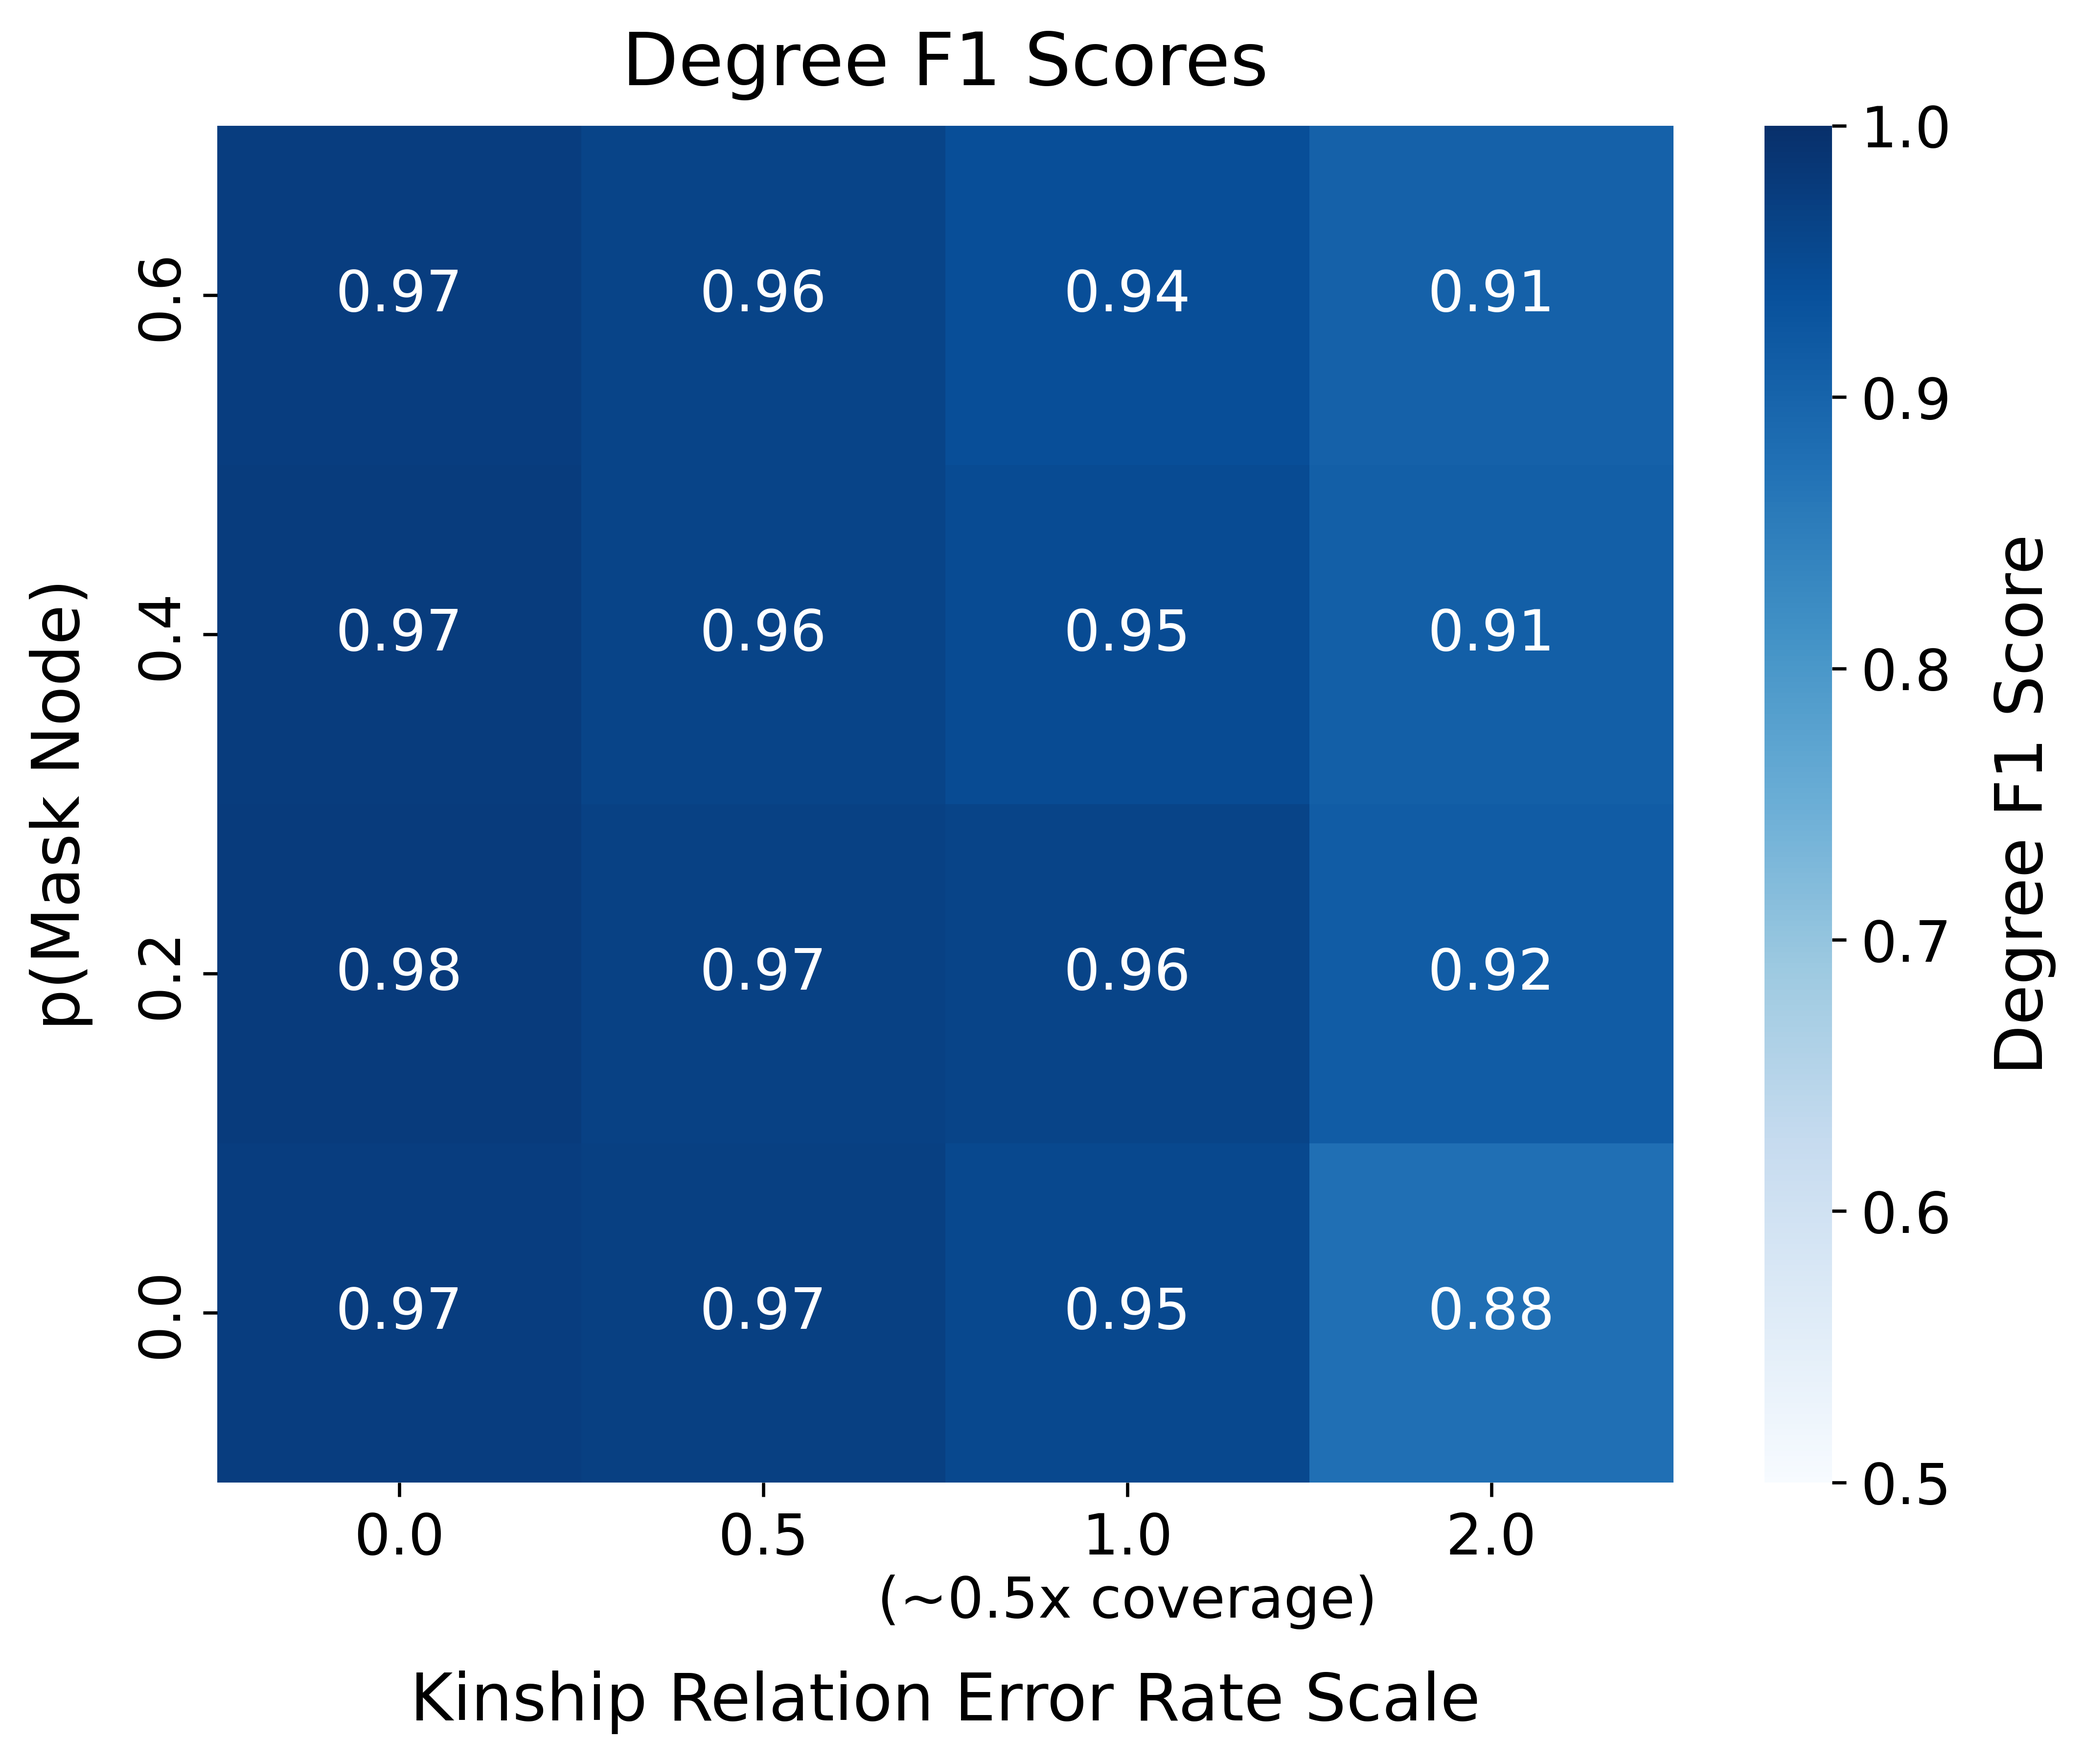
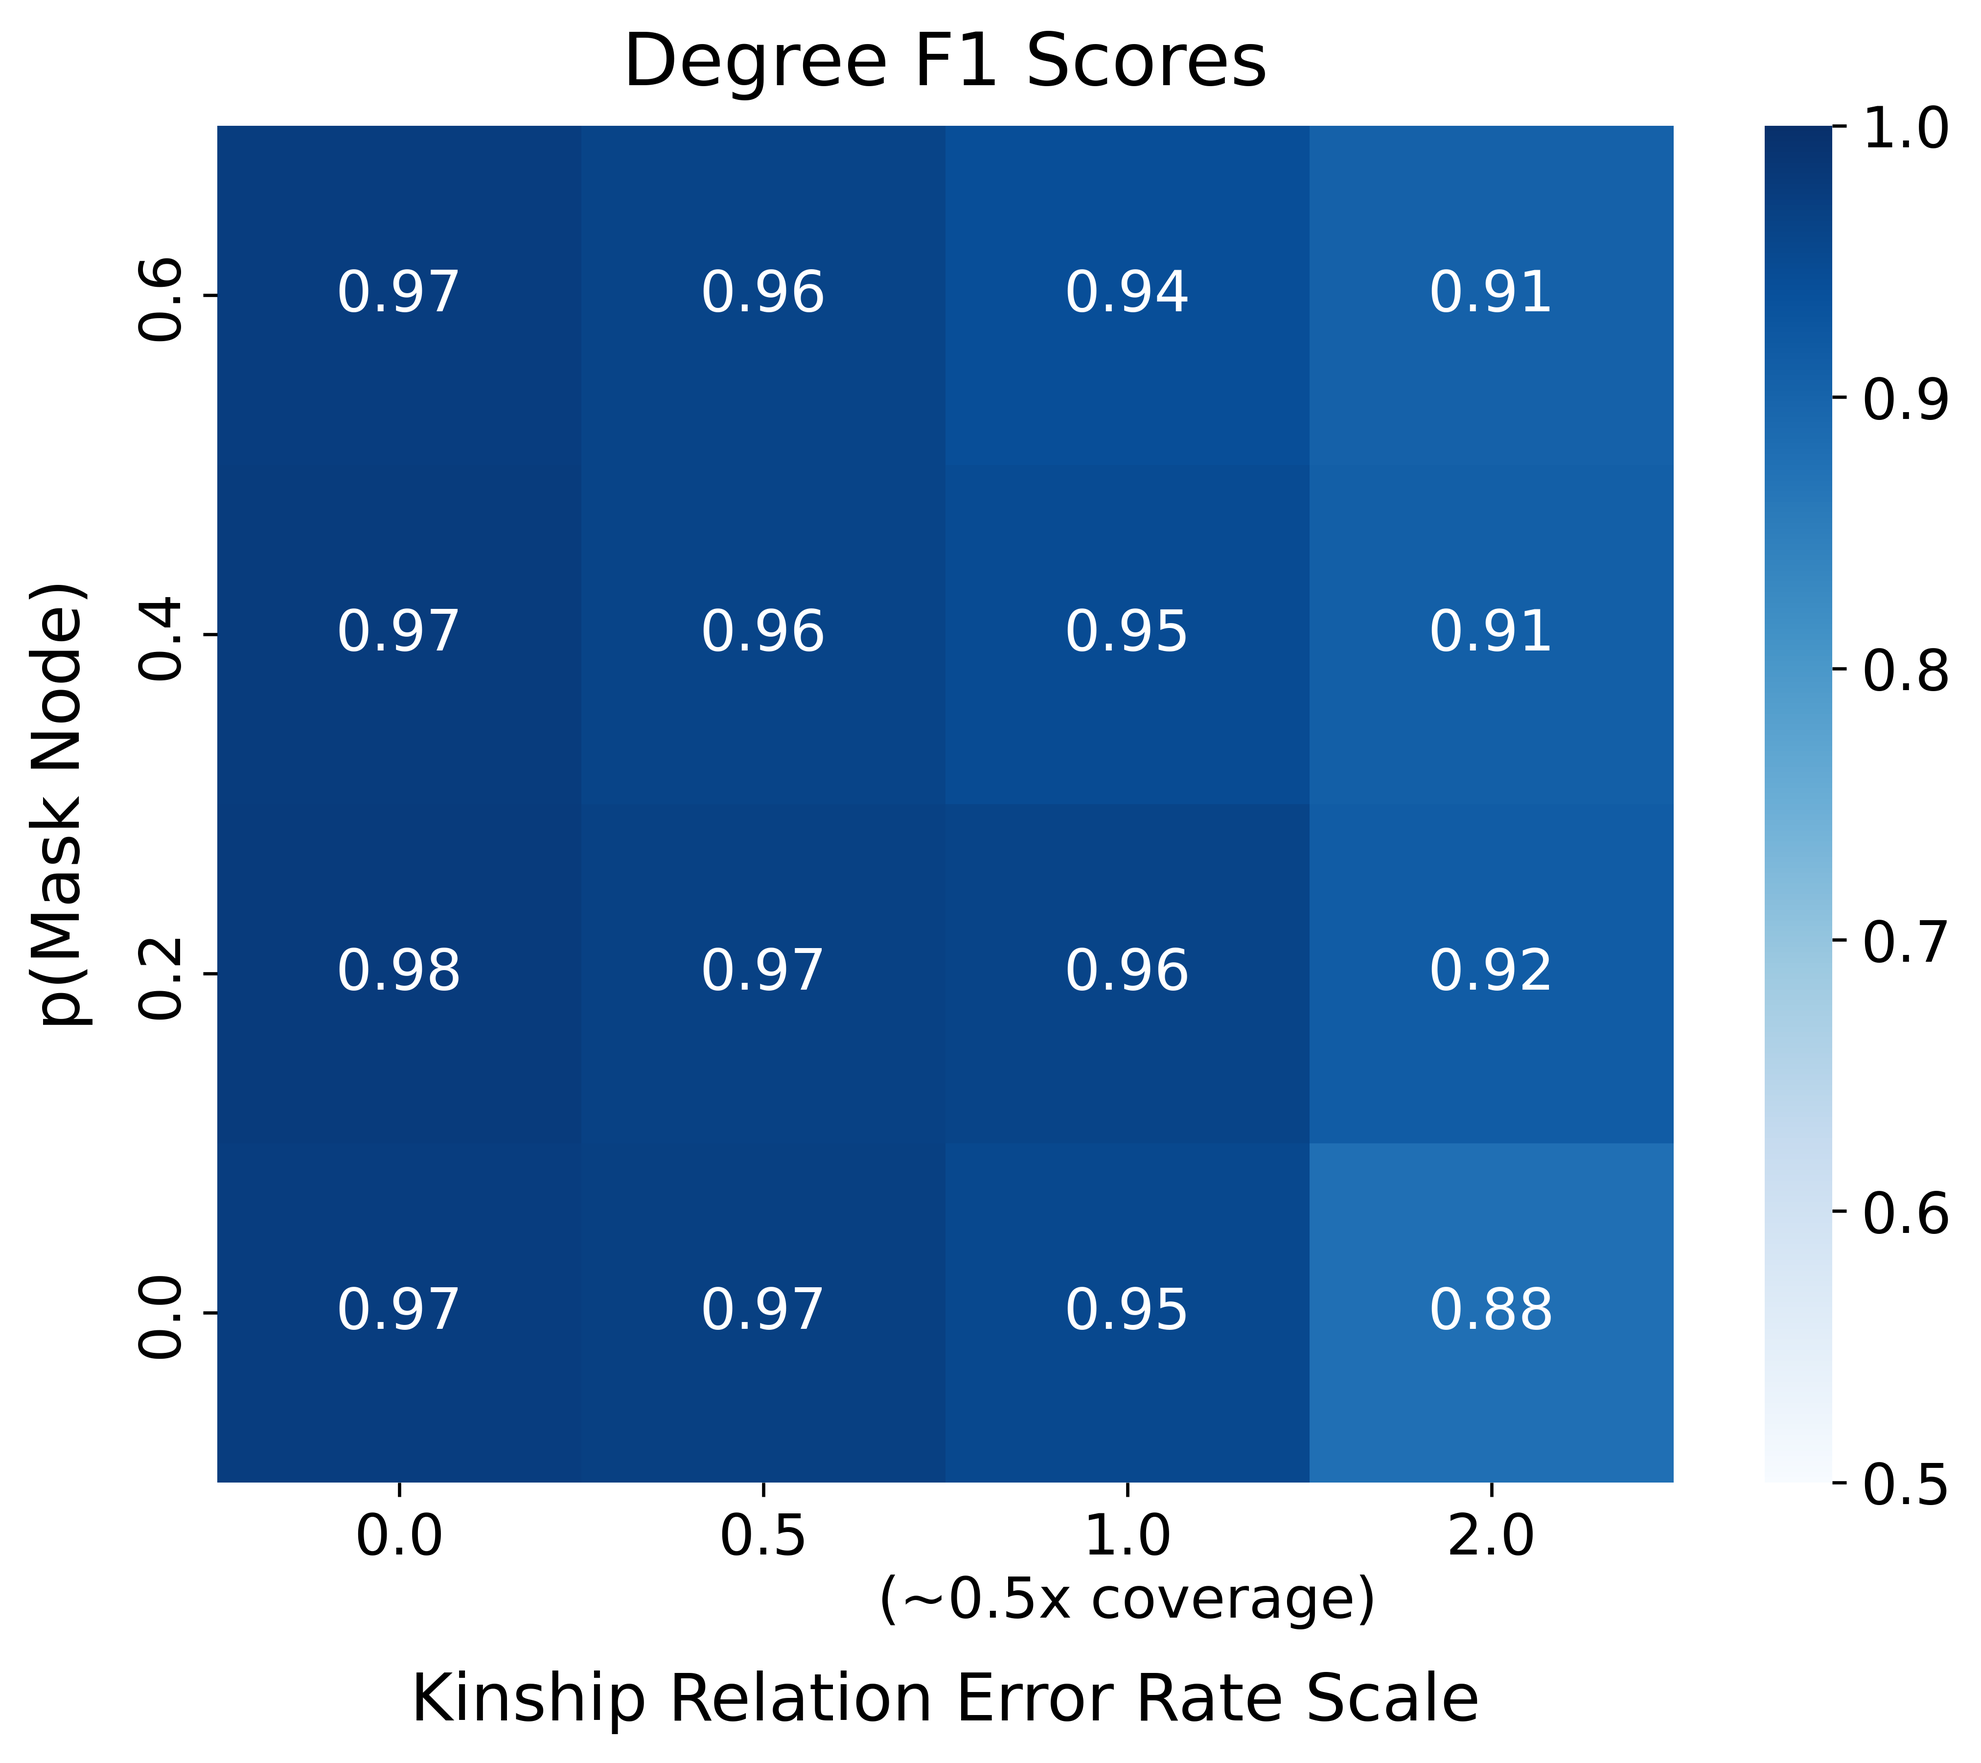
Remove colorbar label

diff --git a/benchmarks/simulations/plot_sampling_data.py b/benchmarks/simulations/plot_sampling_data.py
@@ -54,15 +54,12 @@ def plot_results(results_dir: str) -> None:
             annot=True,
             fmt=".2f",
             cmap="Greens",
-            cbar_kws={"label": f"{metric} Score"},
             vmin=0.5,
             vmax=1.0,
             annot_kws={"size": 14},
         )
         # Set colorbar label padding
         ax.figure.axes[-1].yaxis.labelpad = 10
-        # Set colorbar label size
-        ax.figure.axes[-1].yaxis.label.set_size(16)
         # Set colorbar tick label size
         ax.figure.axes[-1].tick_params(labelsize=14)
         plt.title(f"{metric} Scores", fontsize=18, pad=10)

diff --git a/benchmarks/simulations/plot_parameter_data.py b/benchmarks/simulations/plot_parameter_data.py
@@ -109,8 +109,6 @@ def plot_results(results_dir: str) -> None:
         )
         # Set colorbar label padding
         ax.figure.axes[-1].yaxis.labelpad = 10
-        # Set colorbar label size
-        ax.figure.axes[-1].yaxis.label.set_size(16)
         # Set colorbar tick label size
         ax.figure.axes[-1].tick_params(labelsize=14)
         plt.title(f"{metric} Scores", fontsize=18, pad=10)
